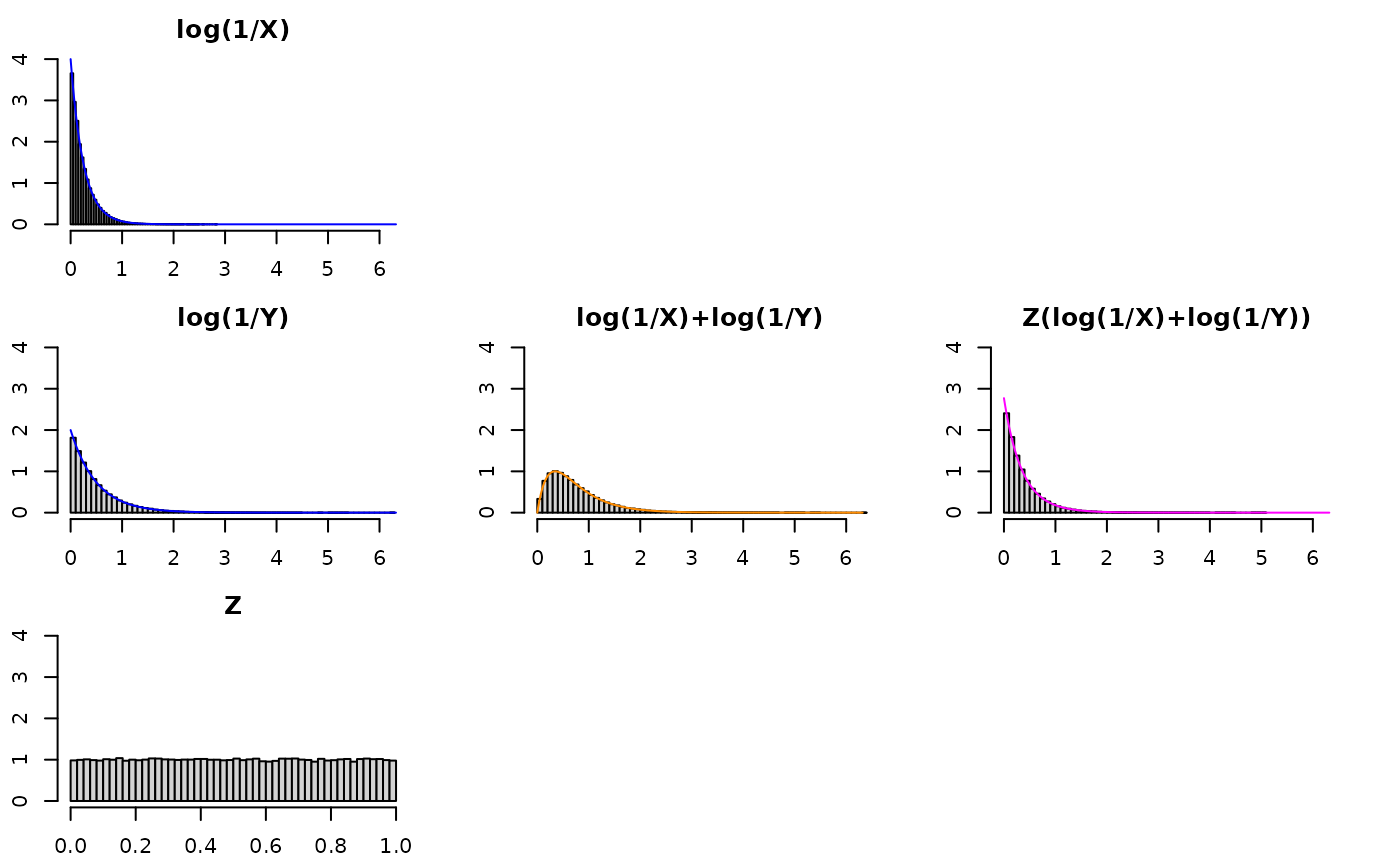
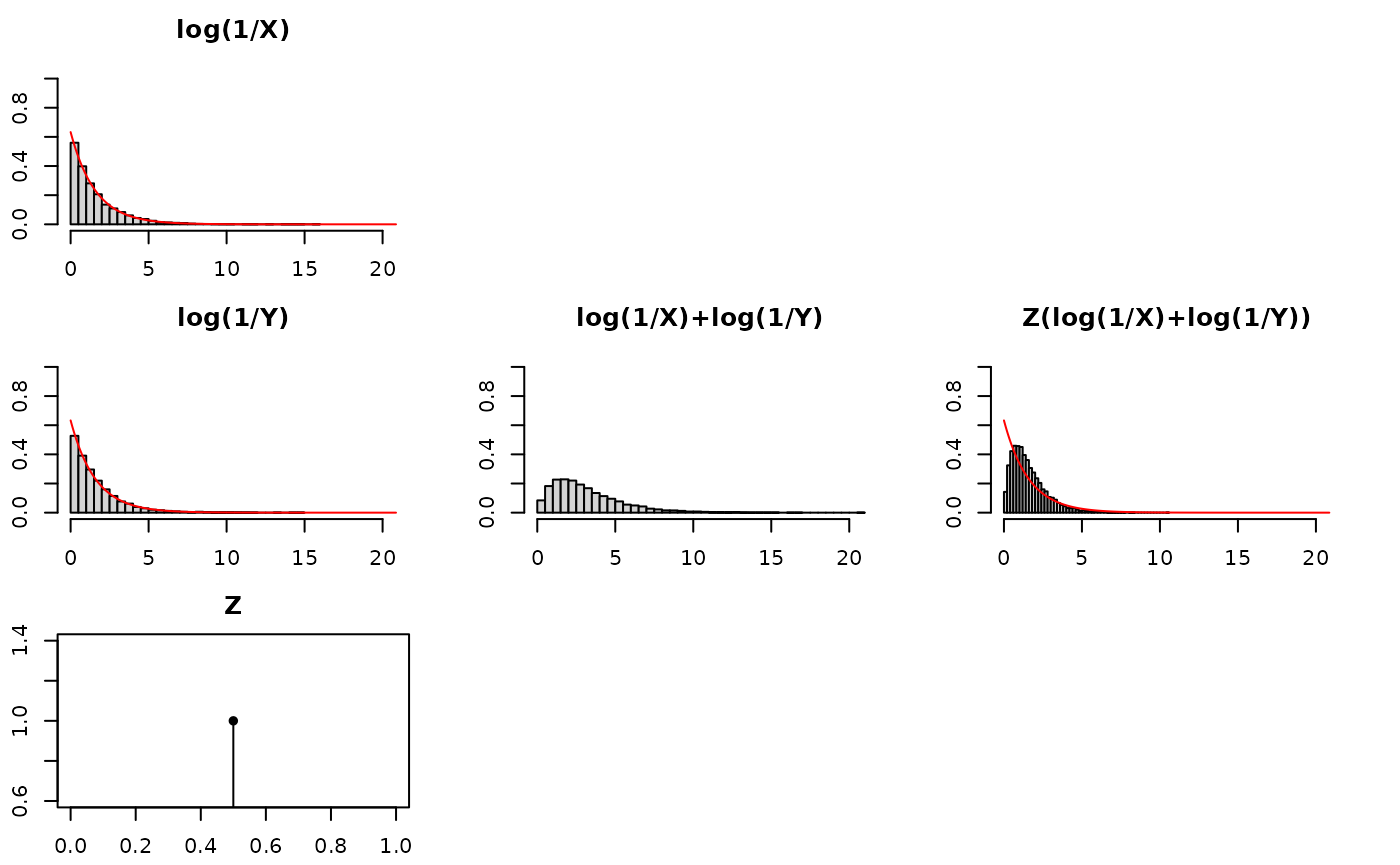
Deploying to gh-pages from @ swihart/mvpd@cfc4346bbe9f228d8664b172735dfee0235e4e9d 🚀

diff --git a/articles/xy_to_the_z_part_i.html b/articles/xy_to_the_z_part_i.html
@@ -382,6 +382,45 @@ by a random number between 0 and 1 will do exactly that.</li>
 <h4 id="alpha-0-633-3">alpha = 0.633<a class="anchor" aria-label="anchor" href="#alpha-0-633-3"></a>
 </h4>
 <p><img src="xy_to_the_z_part_i_files/figure-html/unnamed-chunk-13-1.png" width="700"></p>
+</div>
+</div>
+<div class="section level3">
+<h3 id="follow-up-questions">Follow-up questions<a class="anchor" aria-label="anchor" href="#follow-up-questions"></a>
+</h3>
+<p>Follow up questions means we can explore more. This was a top comment
+on the response video linked in the intro:</p>
+<blockquote>
+<p><span class="citation">@JobBouwman</span> 8 months ago Adding two
+exponentials will double the outcome. Then multiplying this with a
+random uniform scalar between 0 and 1 will on average half the
+result.</p>
+</blockquote>
+<p>This comment in addition to the video helped inspire this document.
+The comment in particular inspired two questions of mine.</p>
+<ul>
+<li>Q: Why “1/2 on average” and not just “1/2 all the time” no
+variation?</li>
+</ul>
+<p>Let’s see what the resultant Z(log(1/X)+log(1/Y)) distribution would
+look like if we replaced <code>z&lt;-runif(nsims, 0, 1)</code> with
+<code>z &lt;- rep(1/2, nsims)</code> in the code. We will see it
+“concentrates” too much and doesn’t recover the distribution of
+log(1/X).</p>
+<p><img src="xy_to_the_z_part_i_files/figure-html/unnamed-chunk-14-1.png" width="700"></p>
+<ul>
+<li>Q: Ok, so Z has to be random. But can it be 1/2 but with bounds
+bigger than 0,1 ?</li>
+</ul>
+<p>Let’s see what the resultant Z(log(1/X)+log(1/Y)) distribution would
+look like if we replaced <code>z&lt;-runif(nsims, 0, 1)</code> with
+<code>z&lt;-runif(nsims, -1, 2)</code> in the code. The mean of Z is
+1/2. However, Z is not bounded between 0 and 1. Hypothesis: even though
+this Z will “1/2 on average” it fails to recover the distribution
+log(1/X) because values bigger than 1 fail to “tighten” the
+distribution. Compounding the problem is values below 0 (negative
+values) flip/reflect values across the y-axis. See below:</p>
+<p><img src="xy_to_the_z_part_i_files/figure-html/unnamed-chunk-15-1.png" width="700"></p>
+<hr>
 <p>So far we have considered cases where the alpha for X and Y are the
 same and how multiplying (log(1/X)+log(1/Y)) by Z allows one to recover
 the original distribution of log(1/X) (equivalently, log(1/Y)). However,
@@ -395,7 +434,6 @@ Exponential with an alpha between
 and
 <math display="inline" xmlns="http://www.w3.org/1998/Math/MathML"><semantics><msub><mi>α</mi><mi>y</mi></msub><annotation encoding="application/x-tex">\alpha_y</annotation></semantics></math>.
 We consider this “unequal alpha” as a bonus case below.</p>
-</div>
 </div>
 </div>
 <div class="section level2">
@@ -412,39 +450,82 @@ so trying different distributions for
 <math display="inline" xmlns="http://www.w3.org/1998/Math/MathML"><semantics><mi>Z</mi><annotation encoding="application/x-tex">Z</annotation></semantics></math>
 leads to different blends of the X,Y distributions:</p>
 <div class="section level3">
-<h3 id="z-sim-u01">
-<math display="inline" xmlns="http://www.w3.org/1998/Math/MathML"><semantics><mrow><mi>Z</mi><mo>∼</mo></mrow><annotation encoding="application/x-tex">Z \sim</annotation></semantics></math>
-U(0,1)<a class="anchor" aria-label="anchor" href="#z-sim-u01"></a>
+<h3 id="z-distributed-as-u01">Z distributed as U(0,1)<a class="anchor" aria-label="anchor" href="#z-distributed-as-u01"></a>
 </h3>
 <ul>
+<li>
+<math display="inline" xmlns="http://www.w3.org/1998/Math/MathML"><semantics><mrow><mi>Z</mi><mo>∼</mo></mrow><annotation encoding="application/x-tex">Z \sim</annotation></semantics></math>
+U(0,1)</li>
 <li>mathematica says I need incomplete gamma. luckily <a href="https://search.r-project.org/CRAN/refmans/expint/html/gammainc.html" class="external-link">vincent
 goulet made one for R</a>.</li>
 <li>page 80 green notebook</li>
 </ul>
-<p><img src="xy_to_the_z_part_i_files/figure-html/unnamed-chunk-14-1.png" width="700"></p>
+<p><img src="xy_to_the_z_part_i_files/figure-html/unnamed-chunk-16-1.png" width="700"></p>
 </div>
 <div class="section level3">
-<h3 id="z-sim-inverse-gammaalpha_z-beta_z">
-<math display="inline" xmlns="http://www.w3.org/1998/Math/MathML"><semantics><mrow><mi>Z</mi><mo>∼</mo></mrow><annotation encoding="application/x-tex">Z \sim</annotation></semantics></math>
-Inverse-Gamma(<math display="inline" xmlns="http://www.w3.org/1998/Math/MathML"><semantics><msub><mi>α</mi><mi>z</mi></msub><annotation encoding="application/x-tex">\alpha_z</annotation></semantics></math>,
-<math display="inline" xmlns="http://www.w3.org/1998/Math/MathML"><semantics><msub><mi>β</mi><mi>z</mi></msub><annotation encoding="application/x-tex">\beta_z</annotation></semantics></math>)<a class="anchor" aria-label="anchor" href="#z-sim-inverse-gammaalpha_z-beta_z"></a>
+<h3 id="z-distributed-as-inverse-gammaalpha-beta">Z distributed as Inverse-Gamma(alpha, beta)<a class="anchor" aria-label="anchor" href="#z-distributed-as-inverse-gammaalpha-beta"></a>
 </h3>
 <ul>
+<li>
+<math display="inline" xmlns="http://www.w3.org/1998/Math/MathML"><semantics><mrow><mi>Z</mi><mo>∼</mo></mrow><annotation encoding="application/x-tex">Z \sim</annotation></semantics></math>
+Inverse-Gamma(<math display="inline" xmlns="http://www.w3.org/1998/Math/MathML"><semantics><mrow><mi>a</mi><mi>l</mi><mi>p</mi><mi>h</mi><msub><mi>a</mi><mi>z</mi></msub></mrow><annotation encoding="application/x-tex">alpha_z</annotation></semantics></math>,
+<math display="inline" xmlns="http://www.w3.org/1998/Math/MathML"><semantics><mrow><mi>b</mi><mi>e</mi><mi>t</mi><msub><mi>a</mi><mi>z</mi></msub></mrow><annotation encoding="application/x-tex">beta_z</annotation></semantics></math>)</li>
 <li>page 83 green notebook</li>
 <li>as
 <math display="inline" xmlns="http://www.w3.org/1998/Math/MathML"><semantics><mrow><msub><mi>α</mi><mi>z</mi></msub><mo>=</mo><msub><mi>β</mi><mi>z</mi></msub><mo>&gt;</mo><mo>&gt;</mo><mo>&gt;</mo><mo>&gt;</mo><mn>1</mn></mrow><annotation encoding="application/x-tex">\alpha_z = \beta_z &gt;&gt;&gt;&gt; 1</annotation></semantics></math>
 Z converges on 1 and the distributions look more similar</li>
 </ul>
-<p><img src="xy_to_the_z_part_i_files/figure-html/unnamed-chunk-15-1.png" width="700"></p>
+<p><img src="xy_to_the_z_part_i_files/figure-html/unnamed-chunk-17-1.png" width="700"></p>
 </div>
 <div class="section level3">
-<h3 id="z-sim-pareto">
-<math display="inline" xmlns="http://www.w3.org/1998/Math/MathML"><semantics><mrow><mi>Z</mi><mo>∼</mo></mrow><annotation encoding="application/x-tex">Z \sim</annotation></semantics></math>
-Pareto<a class="anchor" aria-label="anchor" href="#z-sim-pareto"></a>
+<h3 id="z-distributed-as-pareto">Z distributed as Pareto<a class="anchor" aria-label="anchor" href="#z-distributed-as-pareto"></a>
 </h3>
 <ul>
 <li>TBD. don’t have R code yet. see page 81 green notebook</li>
 </ul>
+</div>
+</div>
+<div class="section level2">
+<h2 id="bonus-what-about-3-exponentials">Bonus: What about 3 exponentials?<a class="anchor" aria-label="anchor" href="#bonus-what-about-3-exponentials"></a>
+</h2>
+<p>Let’s see what the resultant Z(log(1/X)+log(1/Y)+log(1/A))
+distribution would look like.</p>
+<p><img src="xy_to_the_z_part_i_files/figure-html/unnamed-chunk-18-1.png" width="700"></p>
+<p>It looks like we need more tightening. Instead of multiplying by 1/2
+on average, we need to multiply by 1/3 on average. We need Z uniform,
+with positive values smaller than 1 that average to a 1/3. Let’s replace
+<code>z&lt;-runif(nsims, 0, 1)</code> with
+<code>z&lt;-runif(nsims, 0, 2/3)</code> in the code:</p>
+<pre><code><span><span class="co">#&gt; [1] 0.333627</span></span></code></pre>
+<p><img src="xy_to_the_z_part_i_files/figure-html/unnamed-chunk-19-1.png" width="700"></p>
+<p>Doesn’t quite seem to do it. That’s because the sum of 2 exponential
+is not an exponential, so certainly a sum of 3 exponentials is not going
+to be an exponential. In fact, looking at the <a href="https://math.stackexchange.com/a/3485159/180716" class="external-link">inductive
+form</a>, Z may not have a “recovering” distribution for a sum of more
+than 2 exponentials.</p>
+<p>If Q ~ Gamma(3,alpha) then what do we multiply by Q to get an
+exponential?</p>
+<blockquote>
+<p>A Gamma distribution times a Gamma distribution will result in an
+exponential distribution if the shape parameter of both Gamma
+distributions is 1, and their rate parameters are the same. In other
+words, if X ~ Gamma(1, λ) and Y ~ Gamma(1, λ), then their product X*Y ~
+Exponential(λ).</p>
+</blockquote>
+<p>And</p>
+<blockquote>
+<p>Solution:
+<math display="inline" xmlns="http://www.w3.org/1998/Math/MathML"><semantics><mrow><mi>G</mi><mi>a</mi><mi>m</mi><mi>m</mi><mi>a</mi><mrow><mo stretchy="true" form="prefix">(</mo><mn>3</mn><mo>,</mo><mi>α</mi><mo stretchy="true" form="postfix">)</mo></mrow></mrow><annotation encoding="application/x-tex">Gamma(3,\alpha )</annotation></semantics></math>
+cannot be transformed into
+<math display="inline" xmlns="http://www.w3.org/1998/Math/MathML"><semantics><mrow><mi>E</mi><mi>x</mi><mi>p</mi><mi>o</mi><mi>n</mi><mi>e</mi><mi>n</mi><mi>t</mi><mi>i</mi><mi>a</mi><mi>l</mi><mrow><mo stretchy="true" form="prefix">(</mo><mi>α</mi><mo stretchy="true" form="postfix">)</mo></mrow></mrow><annotation encoding="application/x-tex">Exponential(\alpha )</annotation></semantics></math>.
+<math display="inline" xmlns="http://www.w3.org/1998/Math/MathML"><semantics><mrow><mi>G</mi><mi>a</mi><mi>m</mi><mi>m</mi><mi>a</mi><mrow><mo stretchy="true" form="prefix">(</mo><mn>1</mn><mo>,</mo><mi>α</mi><mo stretchy="true" form="postfix">)</mo></mrow></mrow><annotation encoding="application/x-tex">Gamma(1,\alpha )</annotation></semantics></math>
+is equal to
+<math display="inline" xmlns="http://www.w3.org/1998/Math/MathML"><semantics><mrow><mi>E</mi><mi>x</mi><mi>p</mi><mi>o</mi><mi>n</mi><mi>e</mi><mi>n</mi><mi>t</mi><mi>i</mi><mi>a</mi><mi>l</mi><mrow><mo stretchy="true" form="prefix">(</mo><mi>α</mi><mo stretchy="true" form="postfix">)</mo></mrow></mrow><annotation encoding="application/x-tex">Exponential(\alpha )</annotation></semantics></math>.</p>
+</blockquote>
+<p>One can tinker and see how close they can get but the theory says it
+will be in exact.</p>
+<pre><code><span><span class="co">#&gt; [1] 0.3000795</span></span></code></pre>
+<p><img src="xy_to_the_z_part_i_files/figure-html/unnamed-chunk-20-1.png" width="700"></p>
 <div class="section level4">
 <h4 id="miscellany-notes-to-self-stubs-for-future-ideas">Miscellany / Notes to self / Stubs for future ideas<a class="anchor" aria-label="anchor" href="#miscellany-notes-to-self-stubs-for-future-ideas"></a>
 </h4>
@@ -456,7 +537,6 @@ transformation of beta relevant for a=0, b=1?</a></p></li>
 <li><p><a href="https://stats.stackexchange.com/a/461337/35034" class="external-link">Keep in
 back pocket for generalizing Uniform…U(-1,1)</a></p></li>
 </ul>
-</div>
 </div>
 </div>
   </main><aside class="col-md-3"><nav id="toc" aria-label="Table of contents"><h2>On this page</h2>

diff --git a/articles/deep_dive_kolm.html b/articles/deep_dive_kolm.html
@@ -350,7 +350,7 @@ the denominators, and then take the square root of that sum.</p>
 <span><span class="va">rkdraw</span> <span class="op">&lt;-</span> <span class="fu"><a href="../reference/rkolm.html">rkolm</a></span><span class="op">(</span><span class="fl">5e4</span>, nterms<span class="op">=</span><span class="fl">5e2</span><span class="op">)</span></span>
 <span><span class="va">end</span> <span class="op">&lt;-</span> <span class="fu"><a href="https://rdrr.io/r/base/Sys.time.html" class="external-link">Sys.time</a></span><span class="op">(</span><span class="op">)</span></span>
 <span><span class="va">end</span><span class="op">-</span><span class="va">beg</span></span>
-<span><span class="co">#&gt; Time difference of 0.8894482 secs</span></span>
+<span><span class="co">#&gt; Time difference of 0.8786781 secs</span></span>
 <span></span>
 <span><span class="co">## Expected value</span></span>
 <span><span class="fu"><a href="https://rdrr.io/r/base/print.html" class="external-link">print</a></span><span class="op">(</span><span class="fu"><a href="https://rdrr.io/r/base/matrix.html" class="external-link">matrix</a></span><span class="op">(</span><span class="fu"><a href="https://rdrr.io/r/base/c.html" class="external-link">c</a></span><span class="op">(</span></span>
